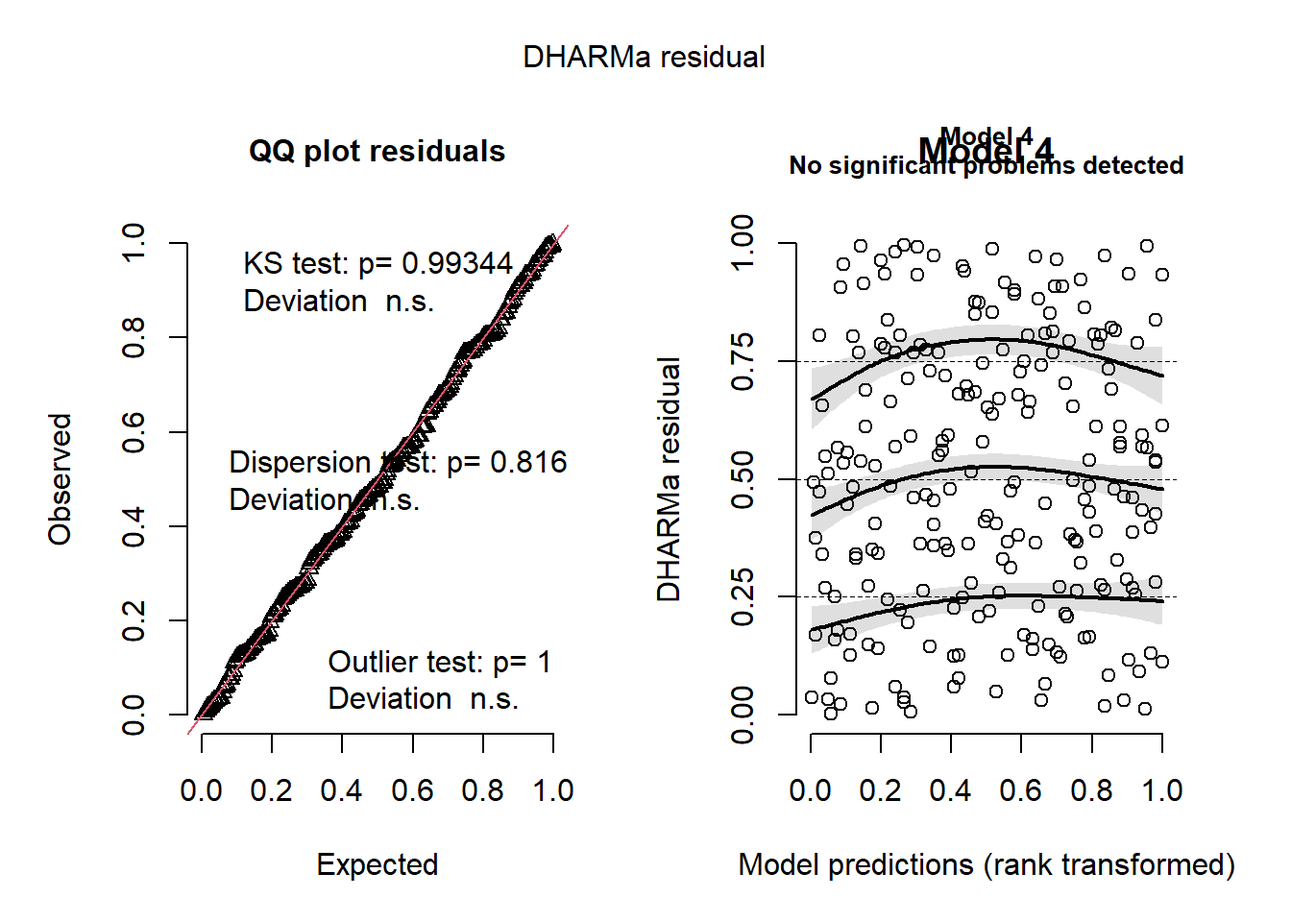
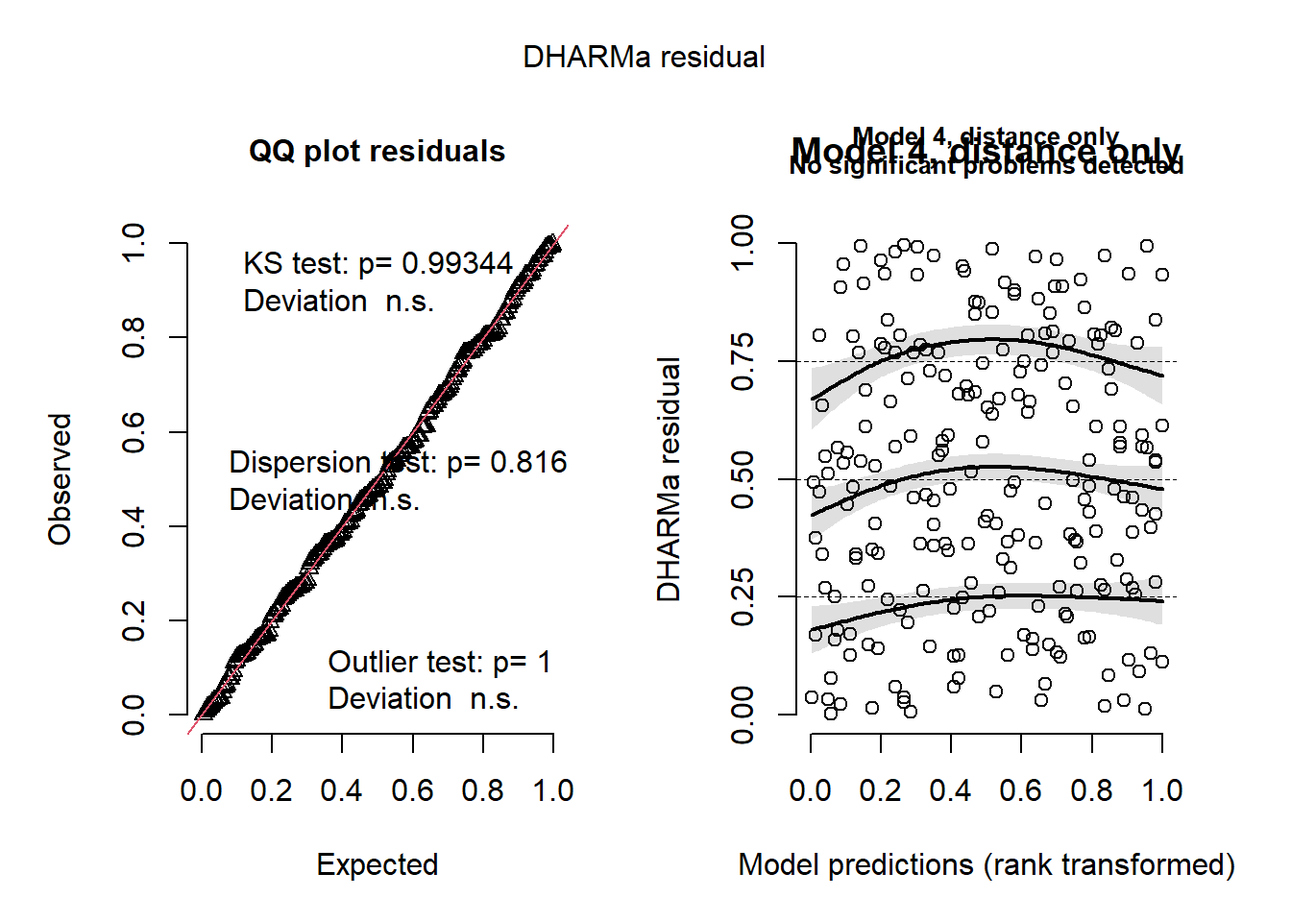
adjust model prediction visualization, interprate the models and calculation results in biological context for problem 3k

Changed region(s): [[0.5938, 0.125, 0.9375, 0.1875]]

diff --git a/code/Final-code.html b/code/Final-code.html
@@ -124,6 +124,7 @@ window.Quarto = {
   </ul></li>
   <li><a href="#problem-3-data-analysis" id="toc-problem-3-data-analysis" class="nav-link" data-scroll-target="#problem-3-data-analysis">Problem 3 Data analysis</a>
   <ul class="collapse">
+  <li><a href="#a.-response-variable" id="toc-a.-response-variable" class="nav-link" data-scroll-target="#a.-response-variable">a. Response variable</a></li>
   <li><a href="#b.-purpose-of-study" id="toc-b.-purpose-of-study" class="nav-link" data-scroll-target="#b.-purpose-of-study">b. Purpose of study</a></li>
   <li><a href="#c.-difference-in-seasons" id="toc-c.-difference-in-seasons" class="nav-link" data-scroll-target="#c.-difference-in-seasons">c.&nbsp;Difference in “seasons”</a></li>
   <li><a href="#d.-table-of-models" id="toc-d.-table-of-models" class="nav-link" data-scroll-target="#d.-table-of-models">d.&nbsp;Table of models</a></li>
@@ -132,6 +133,8 @@ window.Quarto = {
   <li><a href="#g.-select-the-best-model" id="toc-g.-select-the-best-model" class="nav-link" data-scroll-target="#g.-select-the-best-model">g. Select the best model</a></li>
   <li><a href="#h.-visualize-the-model-predictions" id="toc-h.-visualize-the-model-predictions" class="nav-link" data-scroll-target="#h.-visualize-the-model-predictions">h. Visualize the model predictions</a></li>
   <li><a href="#i.-write-a-caption-for-your-figure" id="toc-i.-write-a-caption-for-your-figure" class="nav-link" data-scroll-target="#i.-write-a-caption-for-your-figure">i. Write a caption for your figure</a></li>
+  <li><a href="#j.-calculate-model-predictions" id="toc-j.-calculate-model-predictions" class="nav-link" data-scroll-target="#j.-calculate-model-predictions">j. Calculate model predictions</a></li>
+  <li><a href="#k.-interpret-your-results" id="toc-k.-interpret-your-results" class="nav-link" data-scroll-target="#k.-interpret-your-results">k. Interpret your results</a></li>
   </ul></li>
   </ul>
 </nav>
@@ -180,11 +183,12 @@ window.Quarto = {
 <span id="cb1-5"><a href="#cb1-5" aria-hidden="true" tabindex="-1"></a><span class="fu">library</span>(ggeffects)</span>
 <span id="cb1-6"><a href="#cb1-6" aria-hidden="true" tabindex="-1"></a><span class="fu">library</span>(DHARMa) <span class="co">#for model diagnostics</span></span>
 <span id="cb1-7"><a href="#cb1-7" aria-hidden="true" tabindex="-1"></a><span class="fu">library</span>(MuMIn) <span class="co">#for AICc best model</span></span>
-<span id="cb1-8"><a href="#cb1-8" aria-hidden="true" tabindex="-1"></a></span>
-<span id="cb1-9"><a href="#cb1-9" aria-hidden="true" tabindex="-1"></a><span class="co">#read in data used for assignment</span></span>
-<span id="cb1-10"><a href="#cb1-10" aria-hidden="true" tabindex="-1"></a>sst <span class="ot">&lt;-</span> <span class="fu">read.csv</span>(<span class="fu">here</span>(<span class="st">"data"</span>, <span class="st">"SST_update2023.csv"</span>)) <span class="co">#using package 'here' to fix file path issue</span></span>
-<span id="cb1-11"><a href="#cb1-11" aria-hidden="true" tabindex="-1"></a></span>
-<span id="cb1-12"><a href="#cb1-12" aria-hidden="true" tabindex="-1"></a>nest_boxes <span class="ot">&lt;-</span>  <span class="fu">read.csv</span>(<span class="fu">here</span>(<span class="st">"data"</span>, <span class="st">"occdist.csv"</span>)) <span class="co">#using 'here' to fix file path render issue</span></span></code><button title="Copy to Clipboard" class="code-copy-button"><i class="bi"></i></button></pre></div>
+<span id="cb1-8"><a href="#cb1-8" aria-hidden="true" tabindex="-1"></a><span class="fu">library</span>(scales) <span class="co">#used for manual axis customization </span></span>
+<span id="cb1-9"><a href="#cb1-9" aria-hidden="true" tabindex="-1"></a></span>
+<span id="cb1-10"><a href="#cb1-10" aria-hidden="true" tabindex="-1"></a><span class="co">#read in data used for assignment</span></span>
+<span id="cb1-11"><a href="#cb1-11" aria-hidden="true" tabindex="-1"></a>sst <span class="ot">&lt;-</span> <span class="fu">read.csv</span>(<span class="fu">here</span>(<span class="st">"data"</span>, <span class="st">"SST_update2023.csv"</span>)) <span class="co">#using package 'here' to fix file path issue</span></span>
+<span id="cb1-12"><a href="#cb1-12" aria-hidden="true" tabindex="-1"></a></span>
+<span id="cb1-13"><a href="#cb1-13" aria-hidden="true" tabindex="-1"></a>nest_boxes <span class="ot">&lt;-</span>  <span class="fu">read.csv</span>(<span class="fu">here</span>(<span class="st">"data"</span>, <span class="st">"occdist.csv"</span>)) <span class="co">#using 'here' to fix file path render issue</span></span></code><button title="Copy to Clipboard" class="code-copy-button"><i class="bi"></i></button></pre></div>
 </div>
 </section>
 <section id="problem-1.-research-writing" class="level1">
@@ -229,11 +233,11 @@ window.Quarto = {
 <pre><code># A tibble: 5 × 3
   year  month mean_monthly_sst
   &lt;fct&gt; &lt;ord&gt;            &lt;dbl&gt;
-1 2020  Aug               17.8
-2 2021  Jul               17.6
-3 2018  Jan               15.1
-4 2020  Dec               14.5
-5 2018  Oct               18.4</code></pre>
+1 2023  Jul               16.3
+2 2019  Dec               15  
+3 2020  Oct               19  
+4 2018  Nov               17.9
+5 2022  Apr               13.3</code></pre>
 </div>
 <div class="sourceCode cell-code" id="cb4"><pre class="sourceCode r code-with-copy"><code class="sourceCode r"><span id="cb4-1"><a href="#cb4-1" aria-hidden="true" tabindex="-1"></a><span class="fu">str</span>(sst_clean) <span class="co">#display sst_clean data structure</span></span></code><button title="Copy to Clipboard" class="code-copy-button"><i class="bi"></i></button></pre></div>
 <div class="cell-output cell-output-stdout">
@@ -283,25 +287,26 @@ window.Quarto = {
 </section>
 <section id="problem-3-data-analysis" class="level1">
 <h1>Problem 3 Data analysis</h1>
-<p>##. a. Response variable</p>
+<section id="a.-response-variable" class="level2">
+<h2 class="anchored" data-anchor-id="a.-response-variable">a. Response variable</h2>
 <p>The 1s and 0s in the columns sp, cs, and tm represent the species type in each nest box observation for Swift Parrot, Common Starling, and Tree Martin respectively where a 1 means that species was observed and a0 means it was another species or empty. The column e represents if the nest box was occupied or not, with a 1 meaning it was empty and a 0 meaning it was occupied.</p>
+</section>
 <section id="b.-purpose-of-study" class="level2">
 <h2 class="anchored" data-anchor-id="b.-purpose-of-study">b. Purpose of study</h2>
 <p>Swift Parrots are unique because they are the focus bird for restoration purposes and they have unique nesting habits that make as little of 5% of the available area suitable for their nesting and they do not return to nesting sites of previous years. The other two species, Common Starlings and Tree Martins, are common and abundant in the study area and reported behavior of using nest boxes intended for other species.</p>
 </section>
 <section id="c.-difference-in-seasons" class="level2">
 <h2 class="anchored" data-anchor-id="c.-difference-in-seasons">c.&nbsp;Difference in “seasons”</h2>
-<p>“Our study presents data from the summer breeding seasons of 2016 and 2019 when parrots bred at the study area <strong>(during the interval, parrots were absent from the site)” WHYY</strong></p>
-<p>The study uses data on the summer breeding seasons of 2016 and of 2019. Data was collected in November and some in December in each study season, which coincided with the fledging period for Common Starlings, mid nestling period for Swift Parrots, and nest building for Tree Martins.</p>
+<p>The study uses data on the summer breeding seasons for Swift Parrots of 2016 and of 2019. Data was collected in November and some in December in each study season, which coincided with the fledging period for Common Starlings, mid nestling period for Swift Parrots, and nest building for Tree Martins. Swift Parrots returned to the site in 2019 because of a mast tree flowering event, and were otherwise not present at the study site.</p>
 </section>
 <section id="d.-table-of-models" class="level2">
 <h2 class="anchored" data-anchor-id="d.-table-of-models">d.&nbsp;Table of models</h2>
 <table class="caption-top table">
 <colgroup>
-<col style="width: 20%">
-<col style="width: 20%">
-<col style="width: 27%">
-<col style="width: 31%">
+<col style="width: 23%">
+<col style="width: 23%">
+<col style="width: 23%">
+<col style="width: 29%">
 </colgroup>
 <thead>
 <tr class="header">
@@ -320,20 +325,20 @@ window.Quarto = {
 </tr>
 <tr class="even">
 <td>2</td>
-<td>X</td>
-<td>X</td>
-<td>Year + Distance (saturated)</td>
+<td>✓</td>
+<td>✓</td>
+<td>Season + Distance (saturated)</td>
 </tr>
 <tr class="odd">
 <td>3</td>
-<td>X</td>
+<td>✓</td>
 <td></td>
-<td>Year only</td>
+<td>Season only</td>
 </tr>
 <tr class="even">
 <td>4</td>
 <td></td>
-<td>X</td>
+<td>✓</td>
 <td>Distance only</td>
 </tr>
 </tbody>
@@ -342,19 +347,19 @@ window.Quarto = {
 <section id="e.-run-the-models" class="level2">
 <h2 class="anchored" data-anchor-id="e.-run-the-models">e. Run the models</h2>
 <div class="cell">
-<div class="sourceCode cell-code" id="cb7"><pre class="sourceCode r code-with-copy"><code class="sourceCode r"><span id="cb7-1"><a href="#cb7-1" aria-hidden="true" tabindex="-1"></a>mod1 <span class="ot">&lt;-</span>  <span class="fu">glm</span>(sp <span class="sc">~</span> <span class="dv">1</span>, <span class="co">#null model</span></span>
+<div class="sourceCode cell-code" id="cb7"><pre class="sourceCode r code-with-copy"><code class="sourceCode r"><span id="cb7-1"><a href="#cb7-1" aria-hidden="true" tabindex="-1"></a>mod1 <span class="ot">&lt;-</span>  <span class="fu">glm</span>(sp <span class="sc">~</span> <span class="dv">1</span>, <span class="co">#null model #running a generalized linear model because the data is continuous against binary</span></span>
 <span id="cb7-2"><a href="#cb7-2" aria-hidden="true" tabindex="-1"></a>                   <span class="at">data =</span> nest_clean,</span>
-<span id="cb7-3"><a href="#cb7-3" aria-hidden="true" tabindex="-1"></a>                   <span class="at">family =</span> <span class="st">"binomial"</span>)</span>
+<span id="cb7-3"><a href="#cb7-3" aria-hidden="true" tabindex="-1"></a>                   <span class="at">family =</span> <span class="st">"binomial"</span>) <span class="co">#specifies a binary response variable (Swift Parrot occupancy in the nest boxes)</span></span>
 <span id="cb7-4"><a href="#cb7-4" aria-hidden="true" tabindex="-1"></a></span>
-<span id="cb7-5"><a href="#cb7-5" aria-hidden="true" tabindex="-1"></a>mod2 <span class="ot">&lt;-</span>  <span class="fu">glm</span>(sp <span class="sc">~</span> season <span class="sc">+</span> edge_distance, <span class="co">#saturated model</span></span>
+<span id="cb7-5"><a href="#cb7-5" aria-hidden="true" tabindex="-1"></a>mod2 <span class="ot">&lt;-</span>  <span class="fu">glm</span>(sp <span class="sc">~</span> season <span class="sc">+</span> edge_distance, <span class="co">#saturated model with year and distance</span></span>
 <span id="cb7-6"><a href="#cb7-6" aria-hidden="true" tabindex="-1"></a>             <span class="at">data =</span> nest_clean,</span>
 <span id="cb7-7"><a href="#cb7-7" aria-hidden="true" tabindex="-1"></a>             <span class="at">family =</span> <span class="st">"binomial"</span>)</span>
 <span id="cb7-8"><a href="#cb7-8" aria-hidden="true" tabindex="-1"></a></span>
-<span id="cb7-9"><a href="#cb7-9" aria-hidden="true" tabindex="-1"></a>mod3 <span class="ot">&lt;-</span> <span class="fu">glm</span>(sp <span class="sc">~</span> season,</span>
+<span id="cb7-9"><a href="#cb7-9" aria-hidden="true" tabindex="-1"></a>mod3 <span class="ot">&lt;-</span> <span class="fu">glm</span>(sp <span class="sc">~</span> season, <span class="co">#model 3, season (year) only</span></span>
 <span id="cb7-10"><a href="#cb7-10" aria-hidden="true" tabindex="-1"></a>            <span class="at">data =</span> nest_clean,</span>
 <span id="cb7-11"><a href="#cb7-11" aria-hidden="true" tabindex="-1"></a>            <span class="at">family =</span> <span class="st">"binomial"</span>)</span>
 <span id="cb7-12"><a href="#cb7-12" aria-hidden="true" tabindex="-1"></a></span>
-<span id="cb7-13"><a href="#cb7-13" aria-hidden="true" tabindex="-1"></a>mod4 <span class="ot">&lt;-</span>  <span class="fu">glm</span>(sp <span class="sc">~</span> edge_distance,</span>
+<span id="cb7-13"><a href="#cb7-13" aria-hidden="true" tabindex="-1"></a>mod4 <span class="ot">&lt;-</span>  <span class="fu">glm</span>(sp <span class="sc">~</span> edge_distance, <span class="co">#model 4, distance only</span></span>
 <span id="cb7-14"><a href="#cb7-14" aria-hidden="true" tabindex="-1"></a>             <span class="at">data =</span> nest_clean,</span>
 <span id="cb7-15"><a href="#cb7-15" aria-hidden="true" tabindex="-1"></a>             <span class="at">family =</span> <span class="st">"binomial"</span>)</span></code><button title="Copy to Clipboard" class="code-copy-button"><i class="bi"></i></button></pre></div>
 </div>
@@ -365,14 +370,13 @@ window.Quarto = {
 <div class="sourceCode cell-code" id="cb8"><pre class="sourceCode r code-with-copy"><code class="sourceCode r"><span id="cb8-1"><a href="#cb8-1" aria-hidden="true" tabindex="-1"></a><span class="co"># Simulate residuals for each model</span></span>
 <span id="cb8-2"><a href="#cb8-2" aria-hidden="true" tabindex="-1"></a>residuals1 <span class="ot">&lt;-</span> <span class="fu">simulateResiduals</span>(mod1) <span class="co">#null</span></span>
 <span id="cb8-3"><a href="#cb8-3" aria-hidden="true" tabindex="-1"></a>residuals2 <span class="ot">&lt;-</span> <span class="fu">simulateResiduals</span>(mod2) <span class="co">#saturated </span></span>
-<span id="cb8-4"><a href="#cb8-4" aria-hidden="true" tabindex="-1"></a>residuals3 <span class="ot">&lt;-</span> <span class="fu">simulateResiduals</span>(mod3)</span>
-<span id="cb8-5"><a href="#cb8-5" aria-hidden="true" tabindex="-1"></a>residuals4 <span class="ot">&lt;-</span> <span class="fu">simulateResiduals</span>(mod4)</span>
+<span id="cb8-4"><a href="#cb8-4" aria-hidden="true" tabindex="-1"></a>residuals3 <span class="ot">&lt;-</span> <span class="fu">simulateResiduals</span>(mod3) <span class="co">#season (year) only</span></span>
+<span id="cb8-5"><a href="#cb8-5" aria-hidden="true" tabindex="-1"></a>residuals4 <span class="ot">&lt;-</span> <span class="fu">simulateResiduals</span>(mod4) <span class="co">#distance only</span></span>
 <span id="cb8-6"><a href="#cb8-6" aria-hidden="true" tabindex="-1"></a></span>
-<span id="cb8-7"><a href="#cb8-7" aria-hidden="true" tabindex="-1"></a><span class="co"># Set plotting layout</span></span>
-<span id="cb8-8"><a href="#cb8-8" aria-hidden="true" tabindex="-1"></a><span class="fu">par</span>(<span class="at">mfrow =</span> <span class="fu">c</span>(<span class="dv">2</span>, <span class="dv">2</span>))</span>
-<span id="cb8-9"><a href="#cb8-9" aria-hidden="true" tabindex="-1"></a></span>
-<span id="cb8-10"><a href="#cb8-10" aria-hidden="true" tabindex="-1"></a><span class="co"># Plot each separately</span></span>
-<span id="cb8-11"><a href="#cb8-11" aria-hidden="true" tabindex="-1"></a><span class="fu">plot</span>(residuals1, <span class="at">main =</span> <span class="st">"Null"</span>)</span></code><button title="Copy to Clipboard" class="code-copy-button"><i class="bi"></i></button></pre></div>
+<span id="cb8-7"><a href="#cb8-7" aria-hidden="true" tabindex="-1"></a><span class="fu">par</span>(<span class="at">mfrow =</span> <span class="fu">c</span>(<span class="dv">2</span>, <span class="dv">2</span>)) <span class="co"># Set plotting layout</span></span>
+<span id="cb8-8"><a href="#cb8-8" aria-hidden="true" tabindex="-1"></a></span>
+<span id="cb8-9"><a href="#cb8-9" aria-hidden="true" tabindex="-1"></a><span class="co">#plotting each residuals model separately</span></span>
+<span id="cb8-10"><a href="#cb8-10" aria-hidden="true" tabindex="-1"></a><span class="fu">plot</span>(residuals1, <span class="at">main =</span> <span class="st">"Model 1, Null"</span>)</span></code><button title="Copy to Clipboard" class="code-copy-button"><i class="bi"></i></button></pre></div>
 <div class="cell-output-display">
 <div>
 <figure class="figure">
@@ -380,7 +384,7 @@ window.Quarto = {
 </figure>
 </div>
 </div>
-<div class="sourceCode cell-code" id="cb9"><pre class="sourceCode r code-with-copy"><code class="sourceCode r"><span id="cb9-1"><a href="#cb9-1" aria-hidden="true" tabindex="-1"></a><span class="fu">plot</span>(residuals2, <span class="at">main =</span> <span class="st">"Saturated"</span>)</span></code><button title="Copy to Clipboard" class="code-copy-button"><i class="bi"></i></button></pre></div>
+<div class="sourceCode cell-code" id="cb9"><pre class="sourceCode r code-with-copy"><code class="sourceCode r"><span id="cb9-1"><a href="#cb9-1" aria-hidden="true" tabindex="-1"></a><span class="fu">plot</span>(residuals2, <span class="at">main =</span> <span class="st">"Model 2, Saturated"</span>)</span></code><button title="Copy to Clipboard" class="code-copy-button"><i class="bi"></i></button></pre></div>
 <div class="cell-output-display">
 <div>
 <figure class="figure">
@@ -388,7 +392,7 @@ window.Quarto = {
 </figure>
 </div>
 </div>
-<div class="sourceCode cell-code" id="cb10"><pre class="sourceCode r code-with-copy"><code class="sourceCode r"><span id="cb10-1"><a href="#cb10-1" aria-hidden="true" tabindex="-1"></a><span class="fu">plot</span>(residuals3, <span class="at">main =</span> <span class="st">"Model 3"</span>)</span></code><button title="Copy to Clipboard" class="code-copy-button"><i class="bi"></i></button></pre></div>
+<div class="sourceCode cell-code" id="cb10"><pre class="sourceCode r code-with-copy"><code class="sourceCode r"><span id="cb10-1"><a href="#cb10-1" aria-hidden="true" tabindex="-1"></a><span class="fu">plot</span>(residuals3, <span class="at">main =</span> <span class="st">"Model 3, year only"</span>)</span></code><button title="Copy to Clipboard" class="code-copy-button"><i class="bi"></i></button></pre></div>
 <div class="cell-output-display">
 <div>
 <figure class="figure">
@@ -396,7 +400,7 @@ window.Quarto = {
 </figure>
 </div>
 </div>
-<div class="sourceCode cell-code" id="cb11"><pre class="sourceCode r code-with-copy"><code class="sourceCode r"><span id="cb11-1"><a href="#cb11-1" aria-hidden="true" tabindex="-1"></a><span class="fu">plot</span>(residuals4, <span class="at">main =</span> <span class="st">"Model 4"</span>)</span></code><button title="Copy to Clipboard" class="code-copy-button"><i class="bi"></i></button></pre></div>
+<div class="sourceCode cell-code" id="cb11"><pre class="sourceCode r code-with-copy"><code class="sourceCode r"><span id="cb11-1"><a href="#cb11-1" aria-hidden="true" tabindex="-1"></a><span class="fu">plot</span>(residuals4, <span class="at">main =</span> <span class="st">"Model 4, distance only"</span>)</span></code><button title="Copy to Clipboard" class="code-copy-button"><i class="bi"></i></button></pre></div>
 <div class="cell-output-display">
 <div>
 <figure class="figure">
@@ -409,8 +413,8 @@ window.Quarto = {
 <section id="g.-select-the-best-model" class="level2">
 <h2 class="anchored" data-anchor-id="g.-select-the-best-model">g. Select the best model</h2>
 <div class="cell">
-<div class="sourceCode cell-code" id="cb12"><pre class="sourceCode r code-with-copy"><code class="sourceCode r"><span id="cb12-1"><a href="#cb12-1" aria-hidden="true" tabindex="-1"></a><span class="fu">AICc</span>(mod1,</span>
-<span id="cb12-2"><a href="#cb12-2" aria-hidden="true" tabindex="-1"></a>     mod2,</span>
+<div class="sourceCode cell-code" id="cb12"><pre class="sourceCode r code-with-copy"><code class="sourceCode r"><span id="cb12-1"><a href="#cb12-1" aria-hidden="true" tabindex="-1"></a><span class="fu">AICc</span>(mod1, <span class="co">#Akaike’s Information Criterion from the MuMIn package to choose the best model.</span></span>
+<span id="cb12-2"><a href="#cb12-2" aria-hidden="true" tabindex="-1"></a>     mod2, <span class="co">#model 2 (saturated) gives the best predictions (lowest AIC score output)</span></span>
 <span id="cb12-3"><a href="#cb12-3" aria-hidden="true" tabindex="-1"></a>     mod3,</span>
 <span id="cb12-4"><a href="#cb12-4" aria-hidden="true" tabindex="-1"></a>     mod4) <span class="sc">|&gt;</span> </span>
 <span id="cb12-5"><a href="#cb12-5" aria-hidden="true" tabindex="-1"></a>  <span class="fu">arrange</span>(AICc) <span class="co"># arranging output in descending order of AIC</span></span></code><button title="Copy to Clipboard" class="code-copy-button"><i class="bi"></i></button></pre></div>
@@ -427,34 +431,46 @@ mod1  1 238.8318</code></pre>
 <section id="h.-visualize-the-model-predictions" class="level2">
 <h2 class="anchored" data-anchor-id="h.-visualize-the-model-predictions">h. Visualize the model predictions</h2>
 <div class="cell">
-<div class="sourceCode cell-code" id="cb14"><pre class="sourceCode r code-with-copy"><code class="sourceCode r"><span id="cb14-1"><a href="#cb14-1" aria-hidden="true" tabindex="-1"></a>model_prediction <span class="ot">&lt;-</span> <span class="fu">ggpredict</span>(mod2,</span>
-<span id="cb14-2"><a href="#cb14-2" aria-hidden="true" tabindex="-1"></a>                              <span class="at">terms =</span> <span class="fu">c</span>(<span class="st">"edge_distance [all]"</span>, <span class="st">"season"</span>)) </span>
-<span id="cb14-3"><a href="#cb14-3" aria-hidden="true" tabindex="-1"></a></span>
-<span id="cb14-4"><a href="#cb14-4" aria-hidden="true" tabindex="-1"></a>model_df <span class="ot">&lt;-</span> <span class="fu">as.data.frame</span>(model_prediction) <span class="co">#make the object into a data frame to use in ggplot properly</span></span>
-<span id="cb14-5"><a href="#cb14-5" aria-hidden="true" tabindex="-1"></a></span>
-<span id="cb14-6"><a href="#cb14-6" aria-hidden="true" tabindex="-1"></a><span class="fu">ggplot</span>(<span class="at">data =</span> model_df,</span>
-<span id="cb14-7"><a href="#cb14-7" aria-hidden="true" tabindex="-1"></a>       <span class="fu">aes</span>( <span class="at">x =</span> x,</span>
-<span id="cb14-8"><a href="#cb14-8" aria-hidden="true" tabindex="-1"></a>            <span class="at">y =</span> predicted,</span>
-<span id="cb14-9"><a href="#cb14-9" aria-hidden="true" tabindex="-1"></a>            <span class="at">color =</span> group,</span>
-<span id="cb14-10"><a href="#cb14-10" aria-hidden="true" tabindex="-1"></a>            <span class="at">fill =</span> group)) <span class="sc">+</span> <span class="co">#probability occupied by a swift parrot</span></span>
-<span id="cb14-11"><a href="#cb14-11" aria-hidden="true" tabindex="-1"></a>  <span class="fu">geom_point</span>() <span class="sc">+</span></span>
-<span id="cb14-12"><a href="#cb14-12" aria-hidden="true" tabindex="-1"></a>  <span class="fu">geom_ribbon</span>(</span>
-<span id="cb14-13"><a href="#cb14-13" aria-hidden="true" tabindex="-1"></a>              <span class="fu">aes</span>(<span class="at">ymin =</span> conf.low,</span>
-<span id="cb14-14"><a href="#cb14-14" aria-hidden="true" tabindex="-1"></a>                  <span class="at">ymax =</span> conf.high),</span>
-<span id="cb14-15"><a href="#cb14-15" aria-hidden="true" tabindex="-1"></a>              <span class="at">alpha =</span> .<span class="dv">25</span>,</span>
-<span id="cb14-16"><a href="#cb14-16" aria-hidden="true" tabindex="-1"></a>              <span class="at">color =</span> <span class="cn">NA</span>) <span class="sc">+</span></span>
-<span id="cb14-17"><a href="#cb14-17" aria-hidden="true" tabindex="-1"></a>  <span class="fu">geom_line</span>() <span class="sc">+</span></span>
-<span id="cb14-18"><a href="#cb14-18" aria-hidden="true" tabindex="-1"></a>  <span class="fu">theme_bw</span>() <span class="sc">+</span></span>
-<span id="cb14-19"><a href="#cb14-19" aria-hidden="true" tabindex="-1"></a>  <span class="fu">theme</span>(</span>
-<span id="cb14-20"><a href="#cb14-20" aria-hidden="true" tabindex="-1"></a>        <span class="at">panel.grid.major =</span> <span class="fu">element_blank</span>(),   <span class="co"># remove major gridlines</span></span>
-<span id="cb14-21"><a href="#cb14-21" aria-hidden="true" tabindex="-1"></a>        <span class="at">panel.grid.minor =</span> <span class="fu">element_blank</span>(), <span class="co">#remove minor gridlines</span></span>
-<span id="cb14-22"><a href="#cb14-22" aria-hidden="true" tabindex="-1"></a>        <span class="at">legend.position =</span> <span class="st">"none"</span>) <span class="sc">+</span></span>
-<span id="cb14-23"><a href="#cb14-23" aria-hidden="true" tabindex="-1"></a>  <span class="fu">labs</span>(<span class="at">x =</span> <span class="st">"Distance to forest edge (m)"</span>,</span>
-<span id="cb14-24"><a href="#cb14-24" aria-hidden="true" tabindex="-1"></a>       <span class="at">y =</span> <span class="st">"Probability of box occupancy (%)"</span>) <span class="sc">+</span></span>
-<span id="cb14-25"><a href="#cb14-25" aria-hidden="true" tabindex="-1"></a>  <span class="fu">scale_fill_manual</span>(<span class="at">values =</span> <span class="fu">c</span>(<span class="st">"2016"</span> <span class="ot">=</span> <span class="st">"#9544BF"</span>,</span>
-<span id="cb14-26"><a href="#cb14-26" aria-hidden="true" tabindex="-1"></a>                                <span class="st">"2019"</span> <span class="ot">=</span> <span class="st">"#4465BF"</span>)) <span class="sc">+</span></span>
-<span id="cb14-27"><a href="#cb14-27" aria-hidden="true" tabindex="-1"></a>  <span class="fu">scale_color_manual</span>(<span class="at">values =</span> <span class="fu">c</span>(<span class="st">"2016"</span> <span class="ot">=</span> <span class="st">"#9544BF"</span>,</span>
-<span id="cb14-28"><a href="#cb14-28" aria-hidden="true" tabindex="-1"></a>                                <span class="st">"2019"</span> <span class="ot">=</span> <span class="st">"#4465BF"</span>))</span></code><button title="Copy to Clipboard" class="code-copy-button"><i class="bi"></i></button></pre></div>
+<div class="sourceCode cell-code" id="cb14"><pre class="sourceCode r code-with-copy"><code class="sourceCode r"><span id="cb14-1"><a href="#cb14-1" aria-hidden="true" tabindex="-1"></a><span class="co">#visualize prediction showing underlying data and prediction data</span></span>
+<span id="cb14-2"><a href="#cb14-2" aria-hidden="true" tabindex="-1"></a></span>
+<span id="cb14-3"><a href="#cb14-3" aria-hidden="true" tabindex="-1"></a>model_prediction <span class="ot">&lt;-</span> <span class="fu">ggpredict</span>(mod2, <span class="co">#make a new object of the model prediction made from ggpredict</span></span>
+<span id="cb14-4"><a href="#cb14-4" aria-hidden="true" tabindex="-1"></a>                              <span class="at">terms =</span> <span class="fu">c</span>(<span class="st">"edge_distance [all]"</span>, <span class="st">"season"</span>))  <span class="co">#predictions are made across the entire rand of diatances, and the "season" is being used to seperate data from 2016 and 2019</span></span>
+<span id="cb14-5"><a href="#cb14-5" aria-hidden="true" tabindex="-1"></a>model_df <span class="ot">&lt;-</span> <span class="fu">as.data.frame</span>(model_prediction) <span class="sc">|&gt;</span> <span class="co">#make the model_prediction into a data frame useable by ggplot2</span></span>
+<span id="cb14-6"><a href="#cb14-6" aria-hidden="true" tabindex="-1"></a>  <span class="fu">rename</span>(<span class="at">Season =</span> group) <span class="co">#rename the "group" column into "season" (make legend easier)</span></span>
+<span id="cb14-7"><a href="#cb14-7" aria-hidden="true" tabindex="-1"></a>model_plot <span class="ot">&lt;-</span>  <span class="fu">plot</span>(model_prediction, <span class="at">show_data =</span> <span class="cn">TRUE</span>) <span class="co">#use the ggeffects and base plot() function to make a plot with the prediction ribbon</span></span>
+<span id="cb14-8"><a href="#cb14-8" aria-hidden="true" tabindex="-1"></a></span>
+<span id="cb14-9"><a href="#cb14-9" aria-hidden="true" tabindex="-1"></a><span class="fu">ggplot</span>(model_df, <span class="co">#using ggplot to add customizations and geometry layers to the plot</span></span>
+<span id="cb14-10"><a href="#cb14-10" aria-hidden="true" tabindex="-1"></a>       <span class="fu">aes</span>(<span class="at">x =</span> x,  <span class="co">#x axis is the distance to forest edge</span></span>
+<span id="cb14-11"><a href="#cb14-11" aria-hidden="true" tabindex="-1"></a>           <span class="at">y =</span> predicted, <span class="co">#y axis is predicted occupancy of swift parrots</span></span>
+<span id="cb14-12"><a href="#cb14-12" aria-hidden="true" tabindex="-1"></a>           <span class="at">color =</span> Season,  <span class="co">#data is colored by season(year)</span></span>
+<span id="cb14-13"><a href="#cb14-13" aria-hidden="true" tabindex="-1"></a>           <span class="at">fill =</span> Season)) <span class="sc">+</span> <span class="co">#data is filled by season(year)</span></span>
+<span id="cb14-14"><a href="#cb14-14" aria-hidden="true" tabindex="-1"></a>  <span class="fu">geom_ribbon</span>(<span class="fu">aes</span>(<span class="at">ymin =</span> conf.low, <span class="co">#add a ribbon geometry to represent the confidence interval at 95%</span></span>
+<span id="cb14-15"><a href="#cb14-15" aria-hidden="true" tabindex="-1"></a>                  <span class="at">ymax =</span> conf.high), </span>
+<span id="cb14-16"><a href="#cb14-16" aria-hidden="true" tabindex="-1"></a>              <span class="at">alpha =</span> <span class="fl">0.25</span>,  <span class="co">#make the ribbon 25% transparent</span></span>
+<span id="cb14-17"><a href="#cb14-17" aria-hidden="true" tabindex="-1"></a>              <span class="at">color =</span> <span class="cn">NA</span>) <span class="sc">+</span> <span class="co">#no outline color for the ribbons</span></span>
+<span id="cb14-18"><a href="#cb14-18" aria-hidden="true" tabindex="-1"></a>  <span class="fu">geom_line</span>() <span class="sc">+</span> <span class="co">#adds a line between prediction points for legibility</span></span>
+<span id="cb14-19"><a href="#cb14-19" aria-hidden="true" tabindex="-1"></a>  <span class="fu">geom_point</span>(<span class="at">size =</span> <span class="fl">1.2</span>) <span class="sc">+</span>  <span class="co"># adds the prediction points</span></span>
+<span id="cb14-20"><a href="#cb14-20" aria-hidden="true" tabindex="-1"></a>  <span class="fu">geom_jitter</span>(<span class="at">data =</span> nest_explore,  <span class="co">#underlying data points (binary occupancy) (minimal jitter the points for legibility and reduce overlap)</span></span>
+<span id="cb14-21"><a href="#cb14-21" aria-hidden="true" tabindex="-1"></a>              <span class="fu">aes</span>(<span class="at">x =</span> edge_distance, <span class="co">#x axis is distance</span></span>
+<span id="cb14-22"><a href="#cb14-22" aria-hidden="true" tabindex="-1"></a>                  <span class="at">y =</span> sp, <span class="co">#y axis is binary occupation data of swift parrots</span></span>
+<span id="cb14-23"><a href="#cb14-23" aria-hidden="true" tabindex="-1"></a>                  <span class="at">color =</span> season), <span class="co">#data is colored by the season</span></span>
+<span id="cb14-24"><a href="#cb14-24" aria-hidden="true" tabindex="-1"></a>              <span class="at">inherit.aes =</span> <span class="cn">FALSE</span>, <span class="co">#doesn't inherit aesthics from orignal call on ggplot</span></span>
+<span id="cb14-25"><a href="#cb14-25" aria-hidden="true" tabindex="-1"></a>              <span class="at">height =</span> <span class="fl">0.02</span>, <span class="co">#minimal height jitter to increase legibility</span></span>
+<span id="cb14-26"><a href="#cb14-26" aria-hidden="true" tabindex="-1"></a>              <span class="at">alpha =</span> <span class="fl">0.35</span>, <span class="co">#makes the data  35% transparent</span></span>
+<span id="cb14-27"><a href="#cb14-27" aria-hidden="true" tabindex="-1"></a>              <span class="at">size =</span> <span class="dv">1</span>, <span class="co">#manual size of the data </span></span>
+<span id="cb14-28"><a href="#cb14-28" aria-hidden="true" tabindex="-1"></a>              <span class="at">shape =</span> <span class="dv">2</span>) <span class="sc">+</span> <span class="co">#gives the data an open triangle shape to seperate them from the prediction data points</span></span>
+<span id="cb14-29"><a href="#cb14-29" aria-hidden="true" tabindex="-1"></a>  <span class="fu">scale_color_manual</span>(<span class="at">values =</span> <span class="fu">c</span>(<span class="st">"2016"</span> <span class="ot">=</span> <span class="st">"#9544BF"</span>, <span class="st">"2019"</span> <span class="ot">=</span> <span class="st">"#4465BF"</span>)) <span class="sc">+</span> <span class="co">#maual color for points and lines</span></span>
+<span id="cb14-30"><a href="#cb14-30" aria-hidden="true" tabindex="-1"></a>  <span class="fu">scale_fill_manual</span>(<span class="at">values =</span> <span class="fu">c</span>(<span class="st">"2016"</span> <span class="ot">=</span> <span class="st">"#9544BF"</span>, <span class="st">"2019"</span> <span class="ot">=</span> <span class="st">"#4465BF"</span>)) <span class="sc">+</span> <span class="co">#manual color for ribbon fill</span></span>
+<span id="cb14-31"><a href="#cb14-31" aria-hidden="true" tabindex="-1"></a>  <span class="fu">scale_y_continuous</span>(<span class="at">labels =</span> <span class="fu">percent_format</span>(<span class="at">accuracy =</span> <span class="dv">1</span>)) <span class="sc">+</span>  <span class="co">#format y axis as % using scales package</span></span>
+<span id="cb14-32"><a href="#cb14-32" aria-hidden="true" tabindex="-1"></a>  <span class="fu">labs</span>(<span class="at">x =</span> <span class="st">"Distance to forest edge (m)"</span>, <span class="co">#manual labels for x axis</span></span>
+<span id="cb14-33"><a href="#cb14-33" aria-hidden="true" tabindex="-1"></a>       <span class="at">y =</span> <span class="st">"Probability of Swift Parrot box occupancy, #manual y axis label"</span>, <span class="co">#manual y axis</span></span>
+<span id="cb14-34"><a href="#cb14-34" aria-hidden="true" tabindex="-1"></a>       <span class="at">title =</span> <span class="st">"Swift Parrot Nest Box Occupancy and Predictions by Season"</span> <span class="co">#manual title</span></span>
+<span id="cb14-35"><a href="#cb14-35" aria-hidden="true" tabindex="-1"></a>       ) <span class="sc">+</span></span>
+<span id="cb14-36"><a href="#cb14-36" aria-hidden="true" tabindex="-1"></a>  <span class="fu">theme_bw</span>() <span class="sc">+</span> <span class="co">#base theme choice</span></span>
+<span id="cb14-37"><a href="#cb14-37" aria-hidden="true" tabindex="-1"></a>  <span class="fu">theme</span>( <span class="co">#manual theme adjustments</span></span>
+<span id="cb14-38"><a href="#cb14-38" aria-hidden="true" tabindex="-1"></a>        <span class="at">panel.grid.major =</span> <span class="fu">element_blank</span>(),   <span class="co"># remove major grid lines</span></span>
+<span id="cb14-39"><a href="#cb14-39" aria-hidden="true" tabindex="-1"></a>        <span class="at">panel.grid.minor =</span> <span class="fu">element_blank</span>()  <span class="co">#remove minor grid lines</span></span>
+<span id="cb14-40"><a href="#cb14-40" aria-hidden="true" tabindex="-1"></a>        )</span></code><button title="Copy to Clipboard" class="code-copy-button"><i class="bi"></i></button></pre></div>
 <div class="cell-output-display">
 <div>
 <figure class="figure">
@@ -466,7 +482,50 @@ mod1  1 238.8318</code></pre>
 </section>
 <section id="i.-write-a-caption-for-your-figure" class="level2">
 <h2 class="anchored" data-anchor-id="i.-write-a-caption-for-your-figure">i. Write a caption for your figure</h2>
-<p><strong>Fig. 1 Swift Parrots have a lower probability of occupancy with greater distance to forest edge.</strong> Data from DRYAD “Do nest boxes breed the target species or its competitors? A case study of a critically endangered bird.” The points represent individual predictions using the saturated generalized linear model with lines connecting them. The ribbons represent the confidence interval of the predictions. The color represent data from each season with 2016 in purple and 2019 in blue.</p>
+<p><strong>Fig. 1 Swift Parrots have a higher probability of occupancy with less distance to forest edge.</strong> Data from DRYAD “Do nest boxes breed the target species or its competitors? A case study of a critically endangered bird.” The circle points represent individual predictions using the saturated generalized linear model with lines connecting them and the ribbons represent the 95% confidence interval of the predictions. The triangle points represent binary occupancy data collected on Swift Parrots (2016 n = 104, 2019 n = 123) used to build the model predictions. The color represent data from each season with 2016 in purple and 2019 in blue</p>
+</section>
+<section id="j.-calculate-model-predictions" class="level2">
+<h2 class="anchored" data-anchor-id="j.-calculate-model-predictions">j. Calculate model predictions</h2>
+<div class="cell">
+<div class="sourceCode cell-code" id="cb15"><pre class="sourceCode r code-with-copy"><code class="sourceCode r"><span id="cb15-1"><a href="#cb15-1" aria-hidden="true" tabindex="-1"></a><span class="fu">ggpredict</span>(mod2, <span class="co">#use ggpredict which automatically uses 95% confidence interval using mod2 which is the saturated model that had the lowest AIC</span></span>
+<span id="cb15-2"><a href="#cb15-2" aria-hidden="true" tabindex="-1"></a>          <span class="at">terms =</span> <span class="fu">c</span>(<span class="st">"edge_distance [0]"</span>, <span class="st">"season"</span>)) <span class="co">#calculate prediction when distance = 0 meters for both seasons (years)</span></span></code><button title="Copy to Clipboard" class="code-copy-button"><i class="bi"></i></button></pre></div>
+<div class="cell-output cell-output-stdout">
+<pre><code># Predicted probabilities of sp
+
+season: 2016
+
+edge_distance | Predicted |     95% CI
+--------------------------------------
+            0 |      0.48 | 0.33, 0.64
+
+season: 2019
+
+edge_distance | Predicted |     95% CI
+--------------------------------------
+            0 |      0.30 | 0.18, 0.44</code></pre>
+</div>
+<div class="sourceCode cell-code" id="cb17"><pre class="sourceCode r code-with-copy"><code class="sourceCode r"><span id="cb17-1"><a href="#cb17-1" aria-hidden="true" tabindex="-1"></a><span class="fu">ggpredict</span>(mod2, <span class="co">#use ggpredict which automatically uses 95% confidence interval using mod2 which is the saturated model that had the lowest AIC</span></span>
+<span id="cb17-2"><a href="#cb17-2" aria-hidden="true" tabindex="-1"></a>          <span class="at">terms =</span> <span class="fu">c</span>(<span class="st">"edge_distance [900]"</span>, <span class="st">"season"</span>)) <span class="co">#calculate prediction when distance = 900 m for both seasons (years)</span></span></code><button title="Copy to Clipboard" class="code-copy-button"><i class="bi"></i></button></pre></div>
+<div class="cell-output cell-output-stdout">
+<pre><code># Predicted probabilities of sp
+
+season: 2016
+
+edge_distance | Predicted |     95% CI
+--------------------------------------
+          900 |      0.12 | 0.06, 0.24
+
+season: 2019
+
+edge_distance | Predicted |     95% CI
+--------------------------------------
+          900 |      0.06 | 0.03, 0.13</code></pre>
+</div>
+</div>
+</section>
+<section id="k.-interpret-your-results" class="level2">
+<h2 class="anchored" data-anchor-id="k.-interpret-your-results">k. Interpret your results</h2>
+<p>Probability of a Swift Parrot occupying a nest box is highest when the nest box is close to the forest edge both for when the nest boxes are first installed and three years after installation which can be seen in Figure 1. Swift Parrots are also more likely to occupy a nest box in the first season the boxes are installed, which can be seen in the calculated model predictions. Swift Parrots rarely return to a previous nesting site, so their use of nest boxes declines over time. The other bird species present, Tree Martin and Common Starling, also both present dominant behavior over the Swift Parrot and will occupy the nests when the Swift Parrots are not present.</p>
 </section>
 </section>
 
